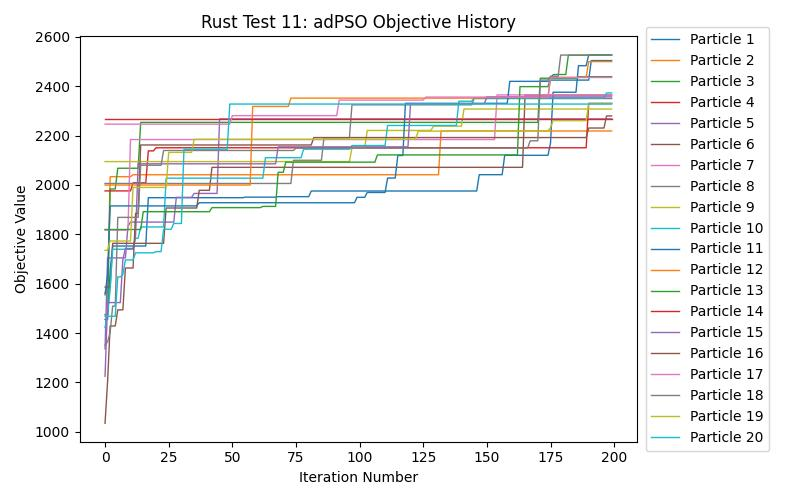
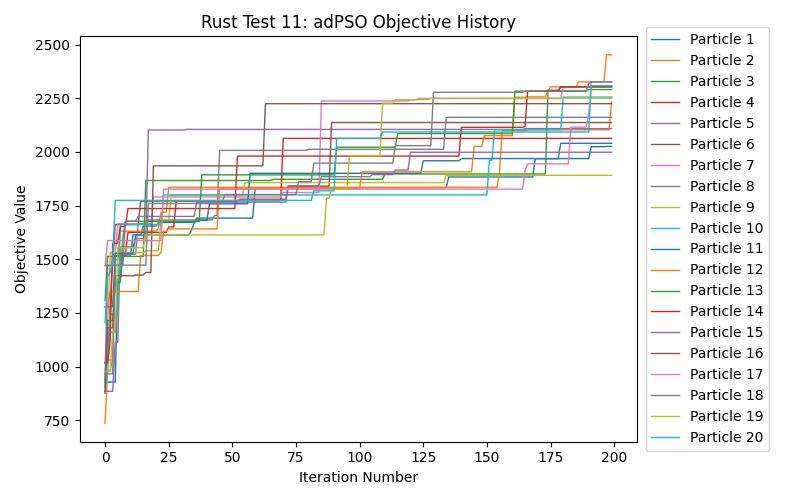
remove old plots and fix rust benchmark

diff --git a/psoscheduler-rust/benches/rust_pso_benchmark.rs b/psoscheduler-rust/benches/rust_pso_benchmark.rs
@@ -4,7 +4,7 @@ use psoscheduler;
 
 pub fn criterion_benchmark(c: &mut Criterion) {
   // env::set_var("RUST_BACKTRACE", "full");
-  c.bench_function("Rust PSO Test 11", |b| b.iter(|| psoscheduler::run_pso_algorithm(black_box(psoscheduler::build_basic_workload()), black_box(psoscheduler::build_basic_data_center()))));
+  c.bench_function("Rust PSO Test 11 Benchmark", |b| b.iter(|| psoscheduler::run_pso_algorithm(black_box(psoscheduler::build_test11_workload()), black_box(psoscheduler::build_test11_data_center()))));
 }
 
 criterion_group!(benches, criterion_benchmark);
